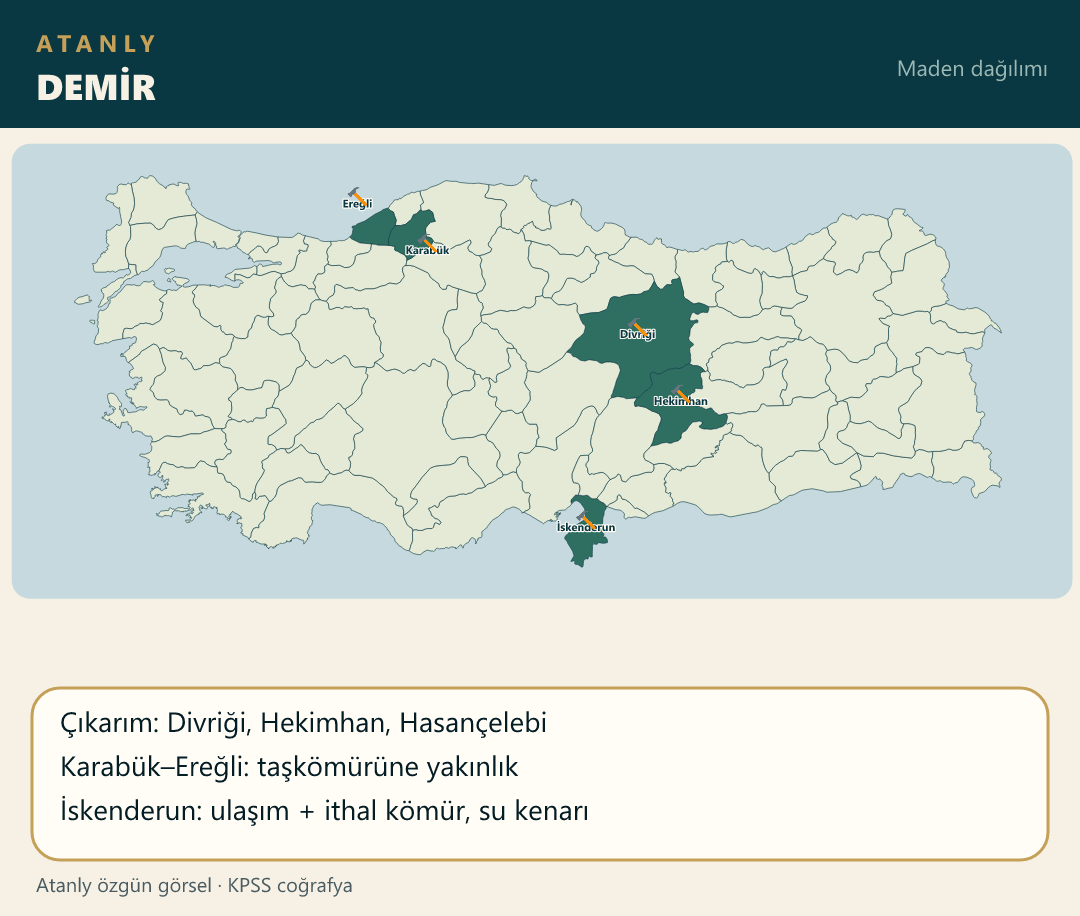
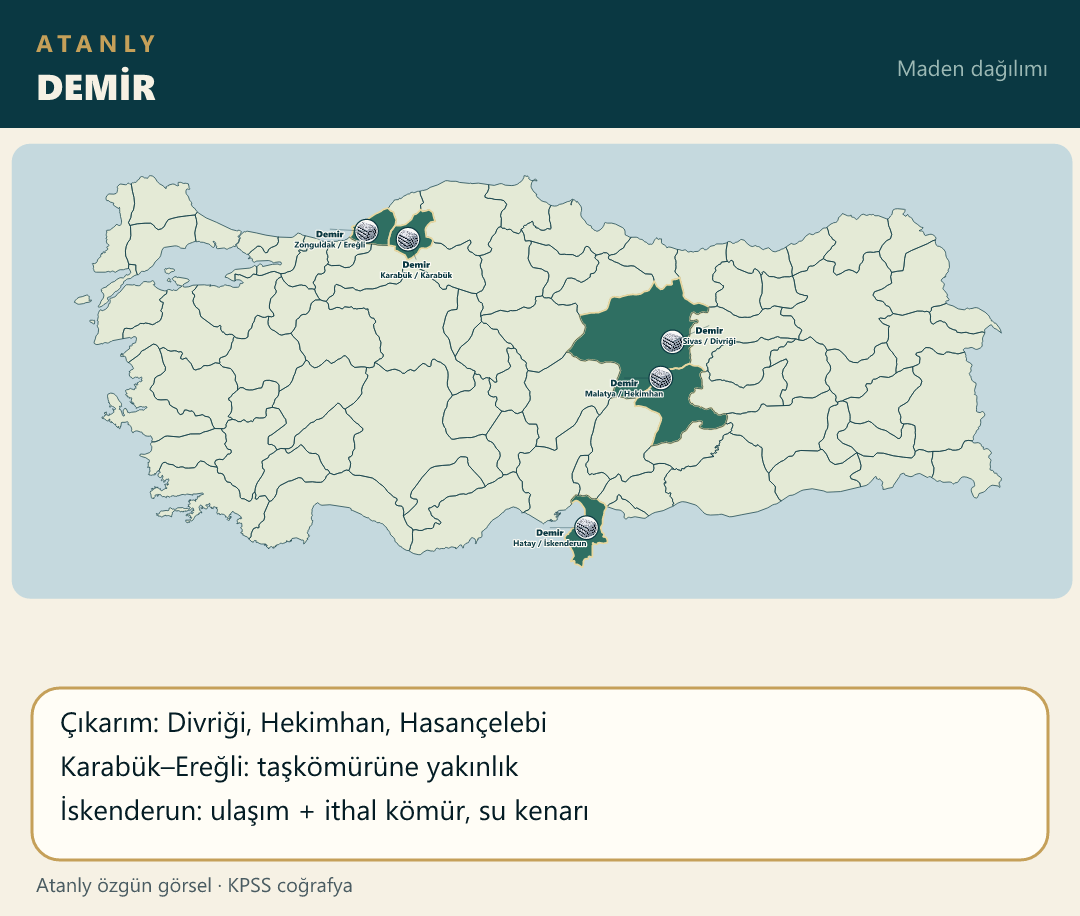
Place the iron photo on Divriği, Hekimhan, Karabük, Ereğli and İskenderun pins.

diff --git a/scripts/build-atanly-maps.js b/scripts/build-atanly-maps.js
@@ -985,8 +985,14 @@ function main() {
             iller: ["Balıkesir", "Bursa", "Eskişehir", "İzmir", "Aydın", "Muğla", "Isparta", "Antalya", "Zonguldak", "Ankara", "Aksaray", "Çankırı", "Yozgat", "Artvin", "Sivas", "Elazığ", "Erzurum", "Mardin", "Afyon", "Konya"],
             yazilar: ["Bor · Mermer", "Bor · Volfram", "Lüle · Toryum", "Altın · Cıva", "Zımpara", "Krom · Mermer", "Kükürt", "Boksit · Barit", "Manganez", "Trona", "Tuz Gölü", "Kaya tuzu", "Uranyum", "Bakır · Altın", "Demir", "Krom", "Oltu taşı", "Fosfat", "Mermer", "Boksit"],
             facts: ["Çeşit fazla, miktar azdır", "En fazla çeşit: Yukarı Fırat (Elazığ) — volkanizma", "Bor dünya rezervinin ~%72’si Türkiye’dedir"] },
-        { file: "maden_demir.png", title: "DEMİR", iller: ["Sivas", "Malatya", "Karabük", "Zonguldak", "Hatay"],
-            yazilar: ["Divriği", "Hekimhan", "Karabük", "Ereğli", "İskenderun"],
+        { file: "maden_demir.png", title: "DEMİR", urun: "Demir",
+            noktalar: [
+                { il: "Sivas", ilce: "Divriği", ldx: 36, ldy: -8, pdx: 28, pdy: 8 },
+                { il: "Malatya", ilce: "Hekimhan", ldx: -36, ldy: 8, pdx: -8, pdy: -18 },
+                { il: "Karabük", ilce: "Karabük", ldx: 8, ldy: 28 },
+                { il: "Zonguldak", ilce: "Ereğli", ldx: -36, ldy: 6, pdx: -10, pdy: 8 },
+                { il: "Hatay", ilce: "İskenderun", ldx: -36, ldy: 8, pdx: 6, pdy: -12 }
+            ],
             facts: ["Çıkarım: Divriği, Hekimhan, Hasançelebi", "Karabük–Ereğli: taşkömürüne yakınlık", "İskenderun: ulaşım + ithal kömür, su kenarı"] },
         { file: "maden_bakir.png", title: "BAKIR", urun: "Bakır",
             noktalar: [

diff --git a/notlar/cografya-21-not.js b/notlar/cografya-21-not.js
@@ -2,7 +2,7 @@
 (function () {
     function harita(src, alt) {
         return '<div class="mt-4 overflow-hidden rounded-xl border border-blue-200 dark:border-blue-700/50 bg-white dark:bg-slate-800 p-2">' +
-            '<img src="./src/img/' + src + '?v=19" alt="' + alt + ' Haritası" class="w-full h-auto rounded-lg object-contain" loading="lazy">' +
+            '<img src="./src/img/' + src + '?v=20" alt="' + alt + ' Haritası" class="w-full h-auto rounded-lg object-contain" loading="lazy">' +
             "</div>";
     }
 

diff --git a/index.html b/index.html
@@ -119,7 +119,7 @@
     <script src="notlar/cografya-18-not.js?v=17"></script>
     <script src="notlar/cografya-19-not.js?v=25"></script>
     <script src="notlar/cografya-20-not.js?v=1"></script>
-    <script src="notlar/cografya-21-not.js?v=12"></script>
+    <script src="notlar/cografya-21-not.js?v=13"></script>
     <script src="notlar/cografya-22-not.js?v=1"></script>
     <script src="notlar/cografya-23-not.js?v=1"></script>
     <script src="notlar/cografya-24-not.js?v=1"></script>
